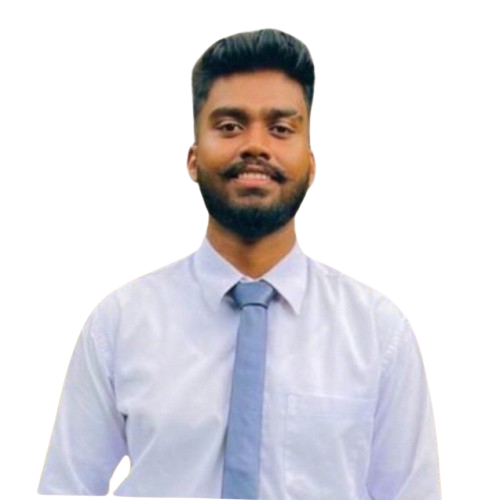
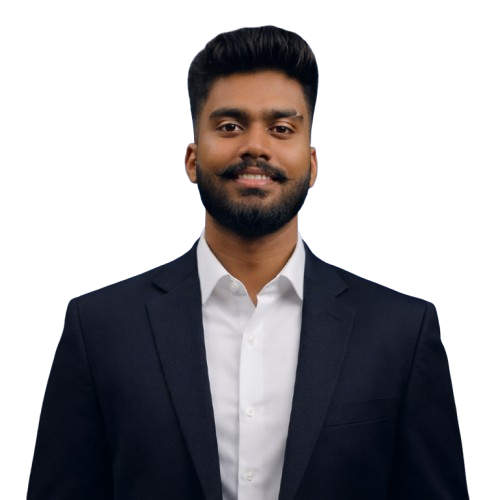
modify the hero image

diff --git a/src/components/Hero.jsx b/src/components/Hero.jsx
@@ -121,12 +121,12 @@ const Hero = () => {
             <motion.img
               src={assets.projectImg6}
               alt="Profile"
-              className="relative w-[85%] h-[85%] object-cover z-10 "
+              className="relative w-[90%] h-[89%] object-cover z-10 "
               style={{
-                transform: 'rotate(-90deg) scale(1.5) translateY(-4%)',
+                transform: 'rotate(-90deg) scale(1.46) translateY(-3%)',
                 objectFit: 'cover',
                 objectPosition: 'center top',
-                clipPath: 'polygon(0% 0%, 100% 0%, 100% 50%, 86% 75%, 50% 92.9%, 14% 75%, 0% 50%)'
+                clipPath: 'polygon(0% 0%, 100% 0%, 100% 63%, 87% 73%, 50% 92.9%, 11% 72%, 0% 50%)'
               }}
               transition={{
                 duration: 4,

diff --git a/src/components/Footer.jsx b/src/components/Footer.jsx
@@ -5,7 +5,7 @@ const Footer = () => {
     return(
         <div className="py-8 bg-black/20">
             <div className="container mx-auto px-6 text-center">
-                <p className="text-gray-300">@ 2025 Created By Vinura Deelaka.All Rights Reserved.</p>
+                <p className="text-gray-300">&copy; 2025 Created by Vinura Deelaka. All rights reserved.</p>
             </div>
             
         </div>
